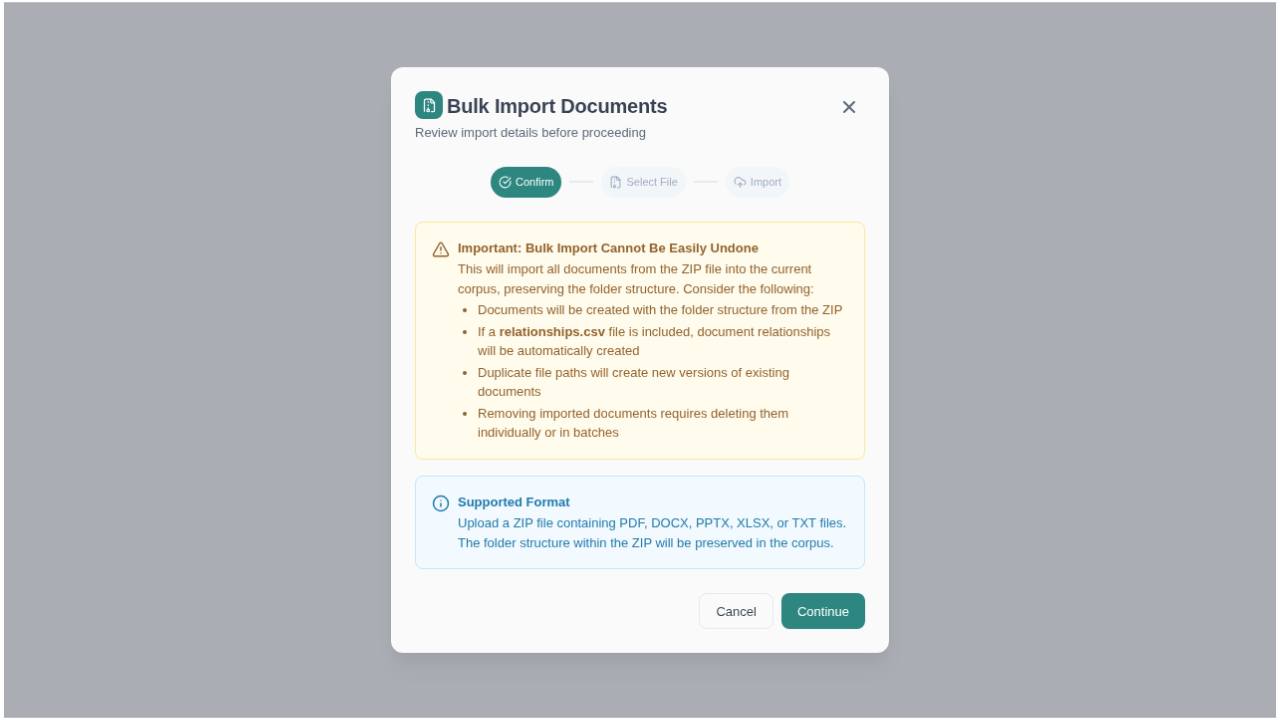
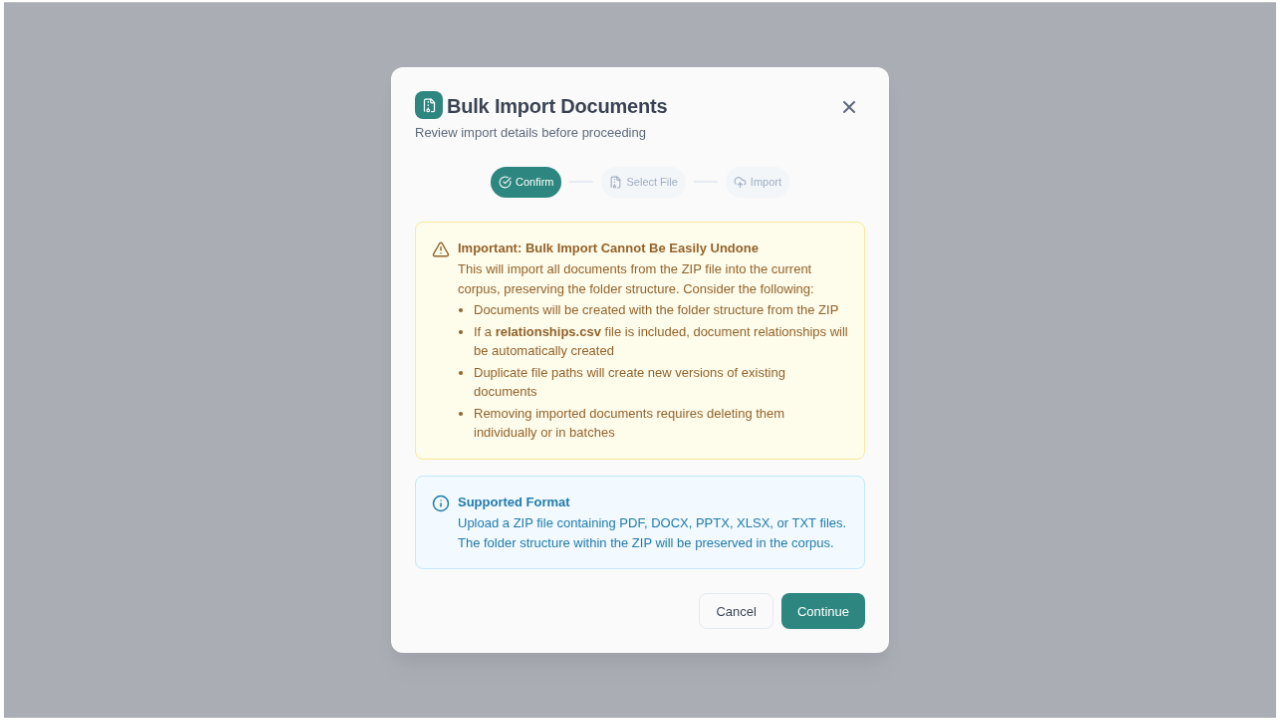
Address PR review: fix touch target, magic numbers, test gaps
- Restore DropZoneButton min-height to 44px (WCAG 2.5.5 touch target)
- Replace magic number padding-left: 1.25rem with var(--oc-spacing-md)
- Use OS_LEGAL_COLORS constants for AlertBox warning/info colors instead
  of non-existent CSS variable fallbacks
- Remove unnecessary fallback from --oc-accent-hover (token exists)
- Add margin between ErrorMessage .header and .message
- Move DropZoneButton icon sizing into styled component (svg rule)
- Unexport spinKeyframes (only used internally by SpinnerIcon)
- Add test for Start Import disabled state without file
- Add test for file selection enabling Start Import button
- Capture file-selected state screenshot

https://claude.ai/code/session_01VBSr1t9QSdmJ4kfHccHyib

Changed region(s): [[0.375, 0.4278, 0.6562, 0.6111]]

diff --git a/frontend/src/components/widgets/modals/UploadModalStyles.ts b/frontend/src/components/widgets/modals/UploadModalStyles.ts
@@ -1,6 +1,9 @@
 import styled, { css, keyframes } from "styled-components";
 import { MOBILE_VIEW_BREAKPOINT } from "../../../assets/configurations/constants";
-import { accentAlpha } from "../../../assets/configurations/osLegalStyles";
+import {
+  accentAlpha,
+  OS_LEGAL_COLORS,
+} from "../../../assets/configurations/osLegalStyles";
 import { modalFooterBorder, modalFooterMobile } from "./sharedModalStyles";
 
 // Animation keyframes
@@ -177,14 +180,14 @@ export const AlertBox = styled.div<{ $variant: "warning" | "info" }>`
   ${({ $variant }) =>
     $variant === "warning"
       ? css`
-          background: var(--oc-warning-bg, #fefce8);
-          color: var(--oc-warning-text, #854d0e);
-          border: 1px solid var(--oc-warning-border, #fde68a);
+          background: ${OS_LEGAL_COLORS.warningSurface};
+          color: ${OS_LEGAL_COLORS.warningText};
+          border: 1px solid ${OS_LEGAL_COLORS.warningBorder};
         `
       : css`
-          background: var(--oc-info-bg, #f0f9ff);
-          color: var(--oc-info-text, #0369a1);
-          border: 1px solid var(--oc-info-border, #bae6fd);
+          background: ${OS_LEGAL_COLORS.infoSurface};
+          color: ${OS_LEGAL_COLORS.infoText};
+          border: 1px solid ${OS_LEGAL_COLORS.infoBorder};
         `}
 
   &:last-child {
@@ -206,7 +209,7 @@ export const AlertBody = styled.div`
 
   ul {
     margin: calc(var(--oc-spacing-xs) / 2) 0 0 0;
-    padding-left: 1.25rem;
+    padding-left: var(--oc-spacing-md);
   }
 
   li {
@@ -311,12 +314,18 @@ export const DropZoneButton = styled.button`
   font-weight: 500;
   font-size: var(--oc-font-size-sm);
   transition: all 0.2s ease;
-  min-height: 40px;
+  min-height: 44px; /* WCAG 2.5.5 touch target minimum */
   border: none;
   cursor: pointer;
   display: inline-flex;
   align-items: center;
   gap: var(--oc-spacing-xs);
+
+  svg {
+    width: 14px;
+    height: 14px;
+    flex-shrink: 0;
+  }
 
   @media (max-width: ${MOBILE_VIEW_BREAKPOINT}px) {
     width: 100%;
@@ -325,7 +334,7 @@ export const DropZoneButton = styled.button`
   }
 
   &:hover {
-    background: var(--oc-accent-hover, #0d6860);
+    background: var(--oc-accent-hover);
     box-shadow: 0 2px 8px ${accentAlpha(0.3)};
   }
 
@@ -387,6 +396,7 @@ export const ErrorMessage = styled.div`
       font-weight: 600;
       color: var(--oc-error);
       font-size: var(--oc-font-size-xs);
+      margin-bottom: calc(var(--oc-spacing-xs) / 2);
     }
 
     .message {
@@ -396,8 +406,8 @@ export const ErrorMessage = styled.div`
   }
 `;
 
-// Spin animation for loader
-export const spinKeyframes = keyframes`
+// Spin animation for loader (used internally by SpinnerIcon)
+const spinKeyframes = keyframes`
   from { transform: rotate(0deg); }
   to { transform: rotate(360deg); }
 `;

diff --git a/frontend/tests/bulk-import-modal.ct.tsx b/frontend/tests/bulk-import-modal.ct.tsx
@@ -106,4 +106,70 @@ test.describe("BulkImportModal", () => {
 
     await component.unmount();
   });
+
+  test("should have Start Import button disabled when no file is selected", async ({
+    mount,
+    page,
+  }) => {
+    const component = await mount(
+      <BulkImportTestWrapper>
+        <BulkImportModal />
+      </BulkImportTestWrapper>
+    );
+
+    // Navigate to upload step
+    await page.locator('button:has-text("Continue")').click();
+    await expect(
+      page.locator("text=Drag & drop a ZIP file here")
+    ).toBeVisible();
+
+    // Start Import should be disabled when no file is selected
+    const startImportButton = page.locator('button:has-text("Start Import")');
+    await expect(startImportButton).toBeVisible();
+    await expect(startImportButton).toBeDisabled();
+
+    await component.unmount();
+  });
+
+  test("should enable Start Import after file selection and show file info", async ({
+    mount,
+    page,
+  }) => {
+    const component = await mount(
+      <BulkImportTestWrapper>
+        <BulkImportModal />
+      </BulkImportTestWrapper>
+    );
+
+    // Navigate to upload step
+    await page.locator('button:has-text("Continue")').click();
+    await expect(
+      page.locator("text=Drag & drop a ZIP file here")
+    ).toBeVisible();
+
+    // Programmatically set a file via the hidden input to simulate selection
+    const fileInput = page.locator('input[type="file"][accept=".zip"]');
+    const zipBuffer = Buffer.from("PK\x03\x04dummy-zip-content");
+    await fileInput.setInputFiles({
+      name: "test-documents.zip",
+      mimeType: "application/zip",
+      buffer: zipBuffer,
+    });
+
+    // File should now be shown in the drop zone
+    await expect(page.locator("text=test-documents.zip")).toBeVisible();
+
+    // "Choose Different File" button should appear
+    await expect(
+      page.locator('button:has-text("Choose Different File")')
+    ).toBeVisible();
+
+    // Start Import should now be enabled
+    const startImportButton = page.locator('button:has-text("Start Import")');
+    await expect(startImportButton).toBeEnabled();
+
+    await docScreenshot(page, "corpus--bulk-import-modal--file-selected");
+
+    await component.unmount();
+  });
 });

diff --git a/frontend/src/components/widgets/modals/BulkImportModal.tsx b/frontend/src/components/widgets/modals/BulkImportModal.tsx
@@ -376,8 +376,7 @@ export const BulkImportModal: React.FC = () => {
               </div>
             </DropZoneText>
             <DropZoneButton onClick={handleBrowseClick}>
-              <RefreshCw style={{ width: 14, height: 14 }} /> Choose Different
-              File
+              <RefreshCw /> Choose Different File
             </DropZoneButton>
           </>
         ) : (
@@ -394,7 +393,7 @@ export const BulkImportModal: React.FC = () => {
               <div className="secondary-text">or click to browse</div>
             </DropZoneText>
             <DropZoneButton onClick={handleBrowseClick}>
-              <FolderOpen style={{ width: 14, height: 14 }} /> Browse Files
+              <FolderOpen /> Browse Files
             </DropZoneButton>
           </>
         )}
